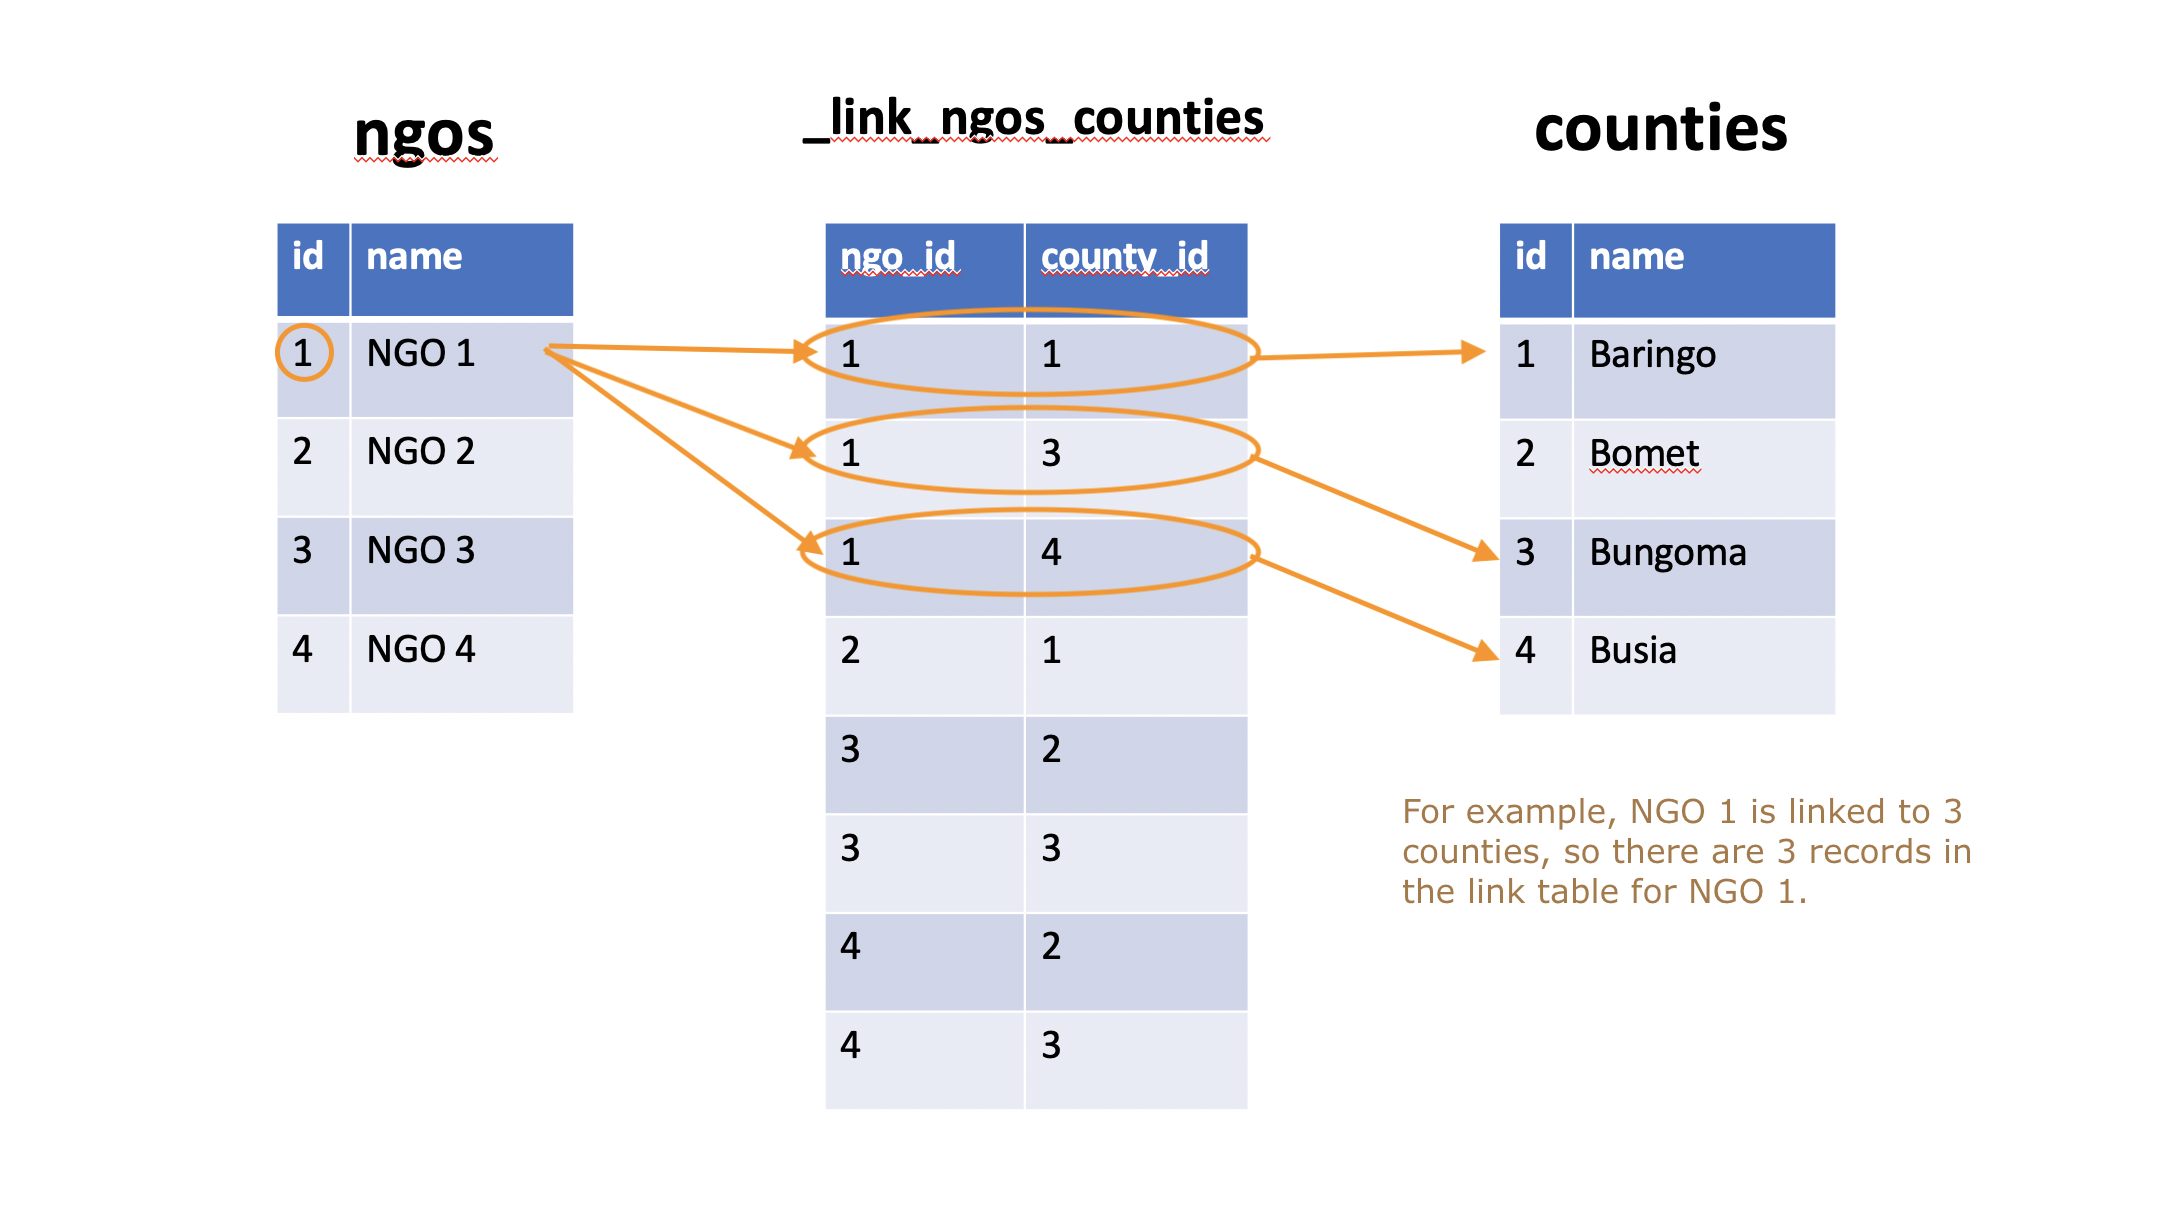
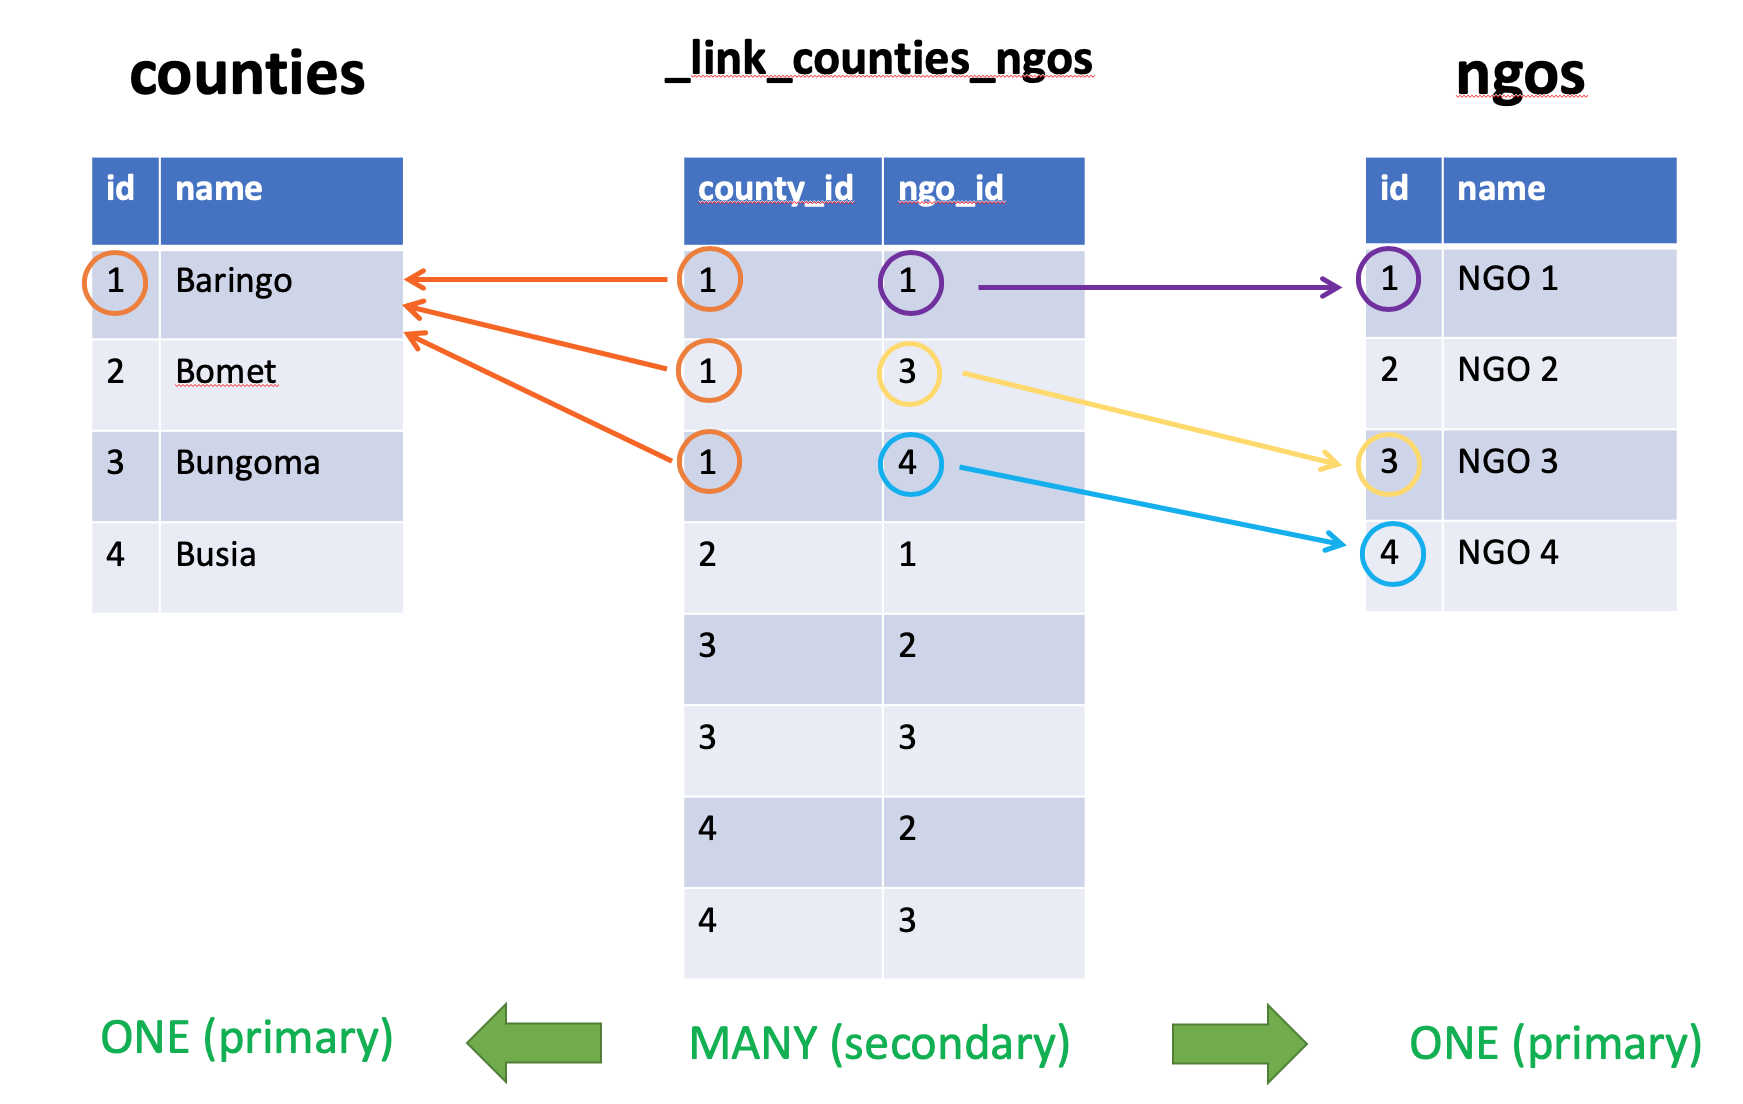
updated graphics to be read from left to right.

diff --git a/guides/Concepts/Relationships/relationships.md b/guides/Concepts/Relationships/relationships.md
@@ -26,7 +26,7 @@ To create this in the database, you link 1 field in your secondary table to the 
 **Which is your secondary table?**
 If one of your tables depends on another it can be called the secondary. In our example, it doesn't make sense to have a record in `web_accounts` if there isn't a corresponding record in `farmers`. (As a farmer must exist to have a user account on your site!). So, your `web_accounts` table is the secondary table in this example.
 
-![image](/assets/images/relationships/1-1.jpg)
+![image](/assets/images/relationships/1-1.png)
 
 ### Many to One
 
@@ -34,19 +34,24 @@ A record in Table 1 is linked to any number of records in Table 2. For example, 
 
 In the database, this is represented in a similar way to one-to-one relationships - by adding a "foreign key" field to your secondary table. In this case, the 'secondary' table is always the 'many' table. So, in the example here, the tables are linked via the `farmer_id` field in the `plots` table. That field tells you which farmer each plot belongs to. One farmer can have many plots, (e.g. Farmer 3 has 2 plots), but a single plot can only belong to one farmer.
 
-![image](/assets/images/relationships/many-1.jpg)
+![image](/assets/images/relationships/many-1.png)
 
 ### Many to Many:
 
 A record in Table 1 is linked to any number of records in Table 2, **and** a record in Table 2 is linked to any number of records in Table 1.
 
-This relationship is impossible to represent with just the 2 tables required, but is still quite a common occurance in real life. For example, you might work with NGOs, who all work in multiple regions within a country. Each NGO works in 1 or more regions, and each region has 1 or more NGOs active within it. This means you have a many-to-many relationship between your `ngos` table and your `counties` table.
+This relationship is impossible to represent with just the 2 tables required, but is still quite a common occurance in real life. For example, you might work with NGOs, who all work in multiple regions within a country. Each NGO works in 1 or more regions, and each region has 1 or more NGOs active within it. This means you have a many-to-many relationship between your `ngos` table and your `counties` table. So, how do we model this relationship?
 
-So, how do we model this relationship? We cannot just add a `county_id` as a foreign key to the `ngos` table, as there could be any number of regions linked to one NGO. We also cannot just add an `ngo_id` as a foriegn key to the `counties` table, because there can be any number of NGOs linked to one region.
+![image](/assets/images/relationships/many-many-no-link.png)
+
+
+We cannot just add a `county_id` as a foreign key to the `ngos` table, as there could be any number of regions linked to one NGO. We also cannot just add an `ngo_id` as a foriegn key to the `counties` table, because there can be any number of NGOs linked to one region.
 
 Instead, we create a link table - a table that sits in-between the 2 main tables, which acts as the "secondary" table for both. This link table has the 2 columns `ngo_id` and `county_id`. Each record represents 1 line that can be drawn between the 2 main tables.
 
 ![image](/assets/images/relationships/many-many.png)
+
+So, evey "many to many" relationship is actually modelled as 2 different many to one relationships. (In the graphic, read each relationship starting from the middle).
 
 This link table is often called a 'pivot' table by database managers, but "link table" is also understood.
 
